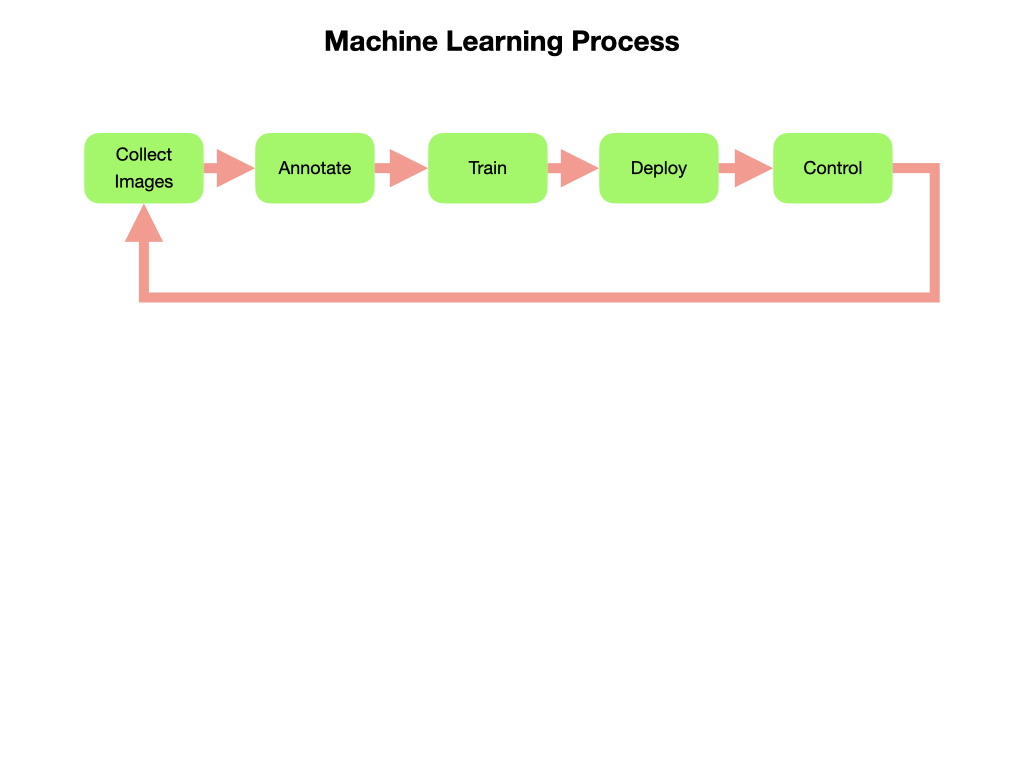
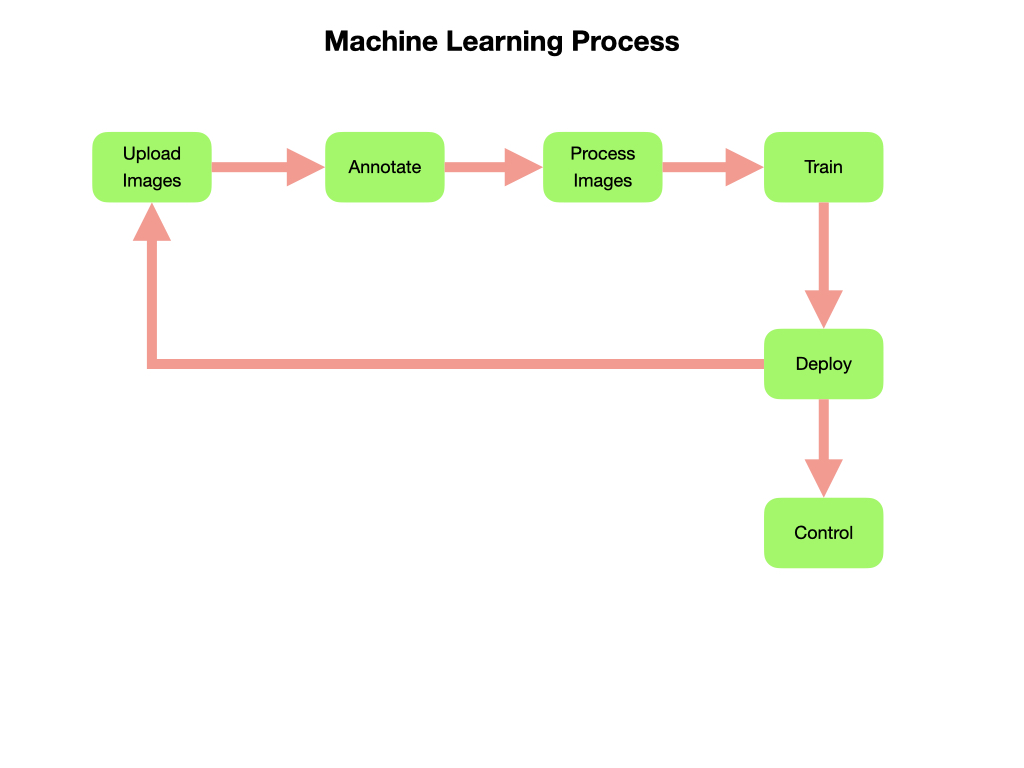
Added Machine Learning

Changed region(s): [[0.0625, 0.1562, 0.9375, 0.75]]

diff --git a/docs/MachineLearning/MLDeployment.md b/docs/MachineLearning/MLDeployment.md
@@ -1,3 +1,92 @@
 # Deploying the Model
+This section shows how to deploy the detection model using an [OAK-D](https://shop.luxonis.com/products/1098obcenclosure) camera provided by [Luxonis](https://www.luxonis.com/).  Luxonis has detailed documentation for its [Depthai](https://docs.luxonis.com/en/latest/) software.  The OAK-D is a powerfull depth camera with an on-board processor that removes the need to have a **Coral TPU** attached to the Raspberry Pi.
+
+The model will be deployed on a Raspberry Pi4 using the [WPILibPi](https://github.com/wpilibsuite/WPILibPi/releases) image.  There are two images, one is used for *Vision* that you would use on a competition robot, and the other is for the *Romi* robot.  The Romi image has everyting that the Vision image has but also includes additional software to operate the Romi. For instructions on installing the Romi image go to [Imaging your Romi](https://docs.wpilib.org/en/stable/docs/romi-robot/imaging-romi.html) on the FRC Documentation site. I recommend that you use the Romi image since it is easier to install additional software on.  You can just login using `ssh pi@wpilibpi.local` with password `raspberry` as soon as the image boots up. 
+
+Once the image is deployed you can proceed with the install of the OAK camera software that is required to do *Inference*.  We'll also deploy a python script to run the model and put the output into the *WPI Network Tables* and display the output to a Web URL.
+
+## Installing the Depthai Software
+
+The **Depthai** software is required in order to do inference on the Raspberry Pi.  The software must be installed natively (**don't** use the *pip virtualenv*) since the WPILib Network Tables are also used for the deployment.  
+
+> Note: You'll require access to the internet to run the installation steps, so if your Romi is set up in Access mode then plug an ethernet cable into the Raspberry Pi. In Access mode you can login using `ssh pi@wpilibpi.local`.  If the Romi is set up in Bridge mode the an ethernet cable is not required. 
+
+> Note: Make sure that the Romi file system is in Writable mode before running the installation.
+
+Before installing the software make sure that `git` is installed using `git --version`.  The *Vision* image of `wpilibpi` does not include it by default.  To install git use `sudo apt install git`. Follow these steps to install the software:
+
+- Install the dependencies: 
+
+        sudo curl -fL https://docs.luxonis.com/install_dependencies.sh | bash
+
+- Install the Depthai libraries:
+
+        python3 -m pip install depthai
+
+- Install the Depthai packages:
+
+        git clone https://github.com/luxonis/depthai-python.git
+
+- Install the Python package requirements:
+
+        cd depthai-python/examples
+        python3 install_requirements.py
+
+- Create a script that triggers your computer to recognize the OAK camera when it's plugged in.
+
+        echo 'SUBSYSTEM=="usb", ATTRS{idVendor}=="03e7", MODE="0666"' | sudo tee /etc/udev/rules.d/80-movidius.rules
+
+- Run the device configuration script:
+
+        sudo udevadm control --reload-rules && sudo udevadm trigger
+
+- To test that the OAK-D camera is recognised, plug it in and run the following command.  You should get the output shown.  Make sure that you plug it into the USB3 input (blue port).
+
+        lsusb | grep MyriadX
+        Bus 003 Device 002: ID 03e7:2485 Intel Movidius MyriadX
+      
+
+        
+
+## Deploying the Python Inference Script        
+In order to run the OAK-D camera and display the detected objects you need to deploy a custom python script that is specific to the type of detection model that you want to deploy. An example of a custom script can be found [here](https://github.com/mjwhite8119/RomiExamples/blob/main/BasicML/Vision/tiny_yolo_wpi.py).  This script will detect purple and red blocks and display the output to a Web URL.  It'll also place information about objects that have been detected into Network Tables so a it can be used by your WPILib java program.
+
+To deploy the script follow these steps:
+
+- Clone the models and python scripts from GitHub:
+
+        cd
+        git clone https://github.com/mjwhite8119/FRCDetectionModels.git
+
+- Copy the runCamera script to the home directory.  This is used by the Romi WebUI to run the detection process:
+
+        cp FRCDetectionModels/runCamera .
+
+- Install the python package requirements:
+
+        cd FRCDetectionModels/
+        python3 -m pip install -r requirements.txt        
+
+## Run the Detection Script
+You can now put the Romi back into Read-Only mode.  Plug the OAK-D camera into the USB 3 port (blue port).  It will need to be powered from the barrel jack, which will require an additional power source.
+
+> Note: You must connect to the access point using the SSID and password of your Romi in order for the script to run and display the output. 
+
+To start the object detection script go the the *Application* tab on the Romi WebUI, change the mode to *Writable*, and put the application in *Custom* mode.  Remember to click the *Save* button under the *Application* panel.  Then go to the *Vision Status* tab and click the *Down* button to stop any current running scripts.  Wait a few seconds and then click the *Up* button to start the object detection script.
+
+![Start Object Detection](../images/FRCMachineLearning/FRCMachineLearning.009.jpeg)
+
+The camera streamed output can be viewed from `10.0.0.2:8091`.  
+> Note: The camera stream does not work from a Safari browser, use Chrome or Firefox.
+
+### Start the Script from the Command Line
+
+From the `FRCDetectionModels` directory run:
+
+        python3 tiny_yolo_wpi.py 
+
+The output can be viewed at `10.0.0.2:8091`
 
 ## References
+- Luxonis [Depthai](https://docs.luxonis.com/en/latest/) software documentation
+- Roboflow [Deployment](https://www.youtube.com/watch?v=f2d5YksgQsU) - Youtube Video

diff --git a/docs/MachineLearning/MLDeployment_.md b/docs/MachineLearning/MLDeployment_.md
@@ -1,0 +1,72 @@
+#  Deploying the Model
+  
+This section shows how to deploy the detection model using an [OAK-D](https://shop.luxonis.com/products/1098obcenclosure ) camera provided by [Luxonis](https://www.luxonis.com/ ).  Luxonis has detailed documentation for its [Depthai](https://docs.luxonis.com/en/latest/ ) software.  The OAK-D is a powerfull depth camera with an on-board processor that removes the need to have a **Coral TPU** attached to the Raspberry Pi.
+  
+The model will be deployed on a Raspberry Pi4 using the [WPILibPi](https://github.com/wpilibsuite/WPILibPi/releases ) image.  There are two images, one is used for *Vision* that you would use on a competition robot, and the other is for the *Romi* robot.  The Romi image has everyting that the Vision image has but also includes additional software to operate the Romi. For instructions on installing the Romi image go to [Imaging your Romi](https://docs.wpilib.org/en/stable/docs/romi-robot/imaging-romi.html ) on the FRC Documentation site. I recommend that you use the Romi image since it is easier to install additional software on.  You can just login using `ssh pi@wpilibpi.local` with password `raspberry` as soon as the image boots up. 
+  
+Once the image is deployed you can proceed with the install of the OAK camera software that is required to do *Inference*.  We'll also deploy a python script to run the model and put the output into the *WPI Network Tables* and display the output to a Web URL.
+  
+##  Installing the Depthai Software
+  
+  
+The **Depthai** software is required in order to do inference on the Raspberry Pi.  The software must be installed natively (**don't** use the *pip virtualenv*) since the WPILib Network Tables are also used for the deployment.  
+  
+> Note: You'll require access to the internet to run the installation steps, so if your Romi is set up in Access mode then plug an ethernet cable into the Raspberry Pi. In Access mode you can login using `ssh pi@wpilibpi.local`.  If the Romi is set up in Bridge mode the an ethernet cable is not required. 
+  
+> Note: Make sure that the Romi file system is in Writable mode before running the installation.
+  
+Before installing the software make sure that `git` is installed using `git --version`.  The *Vision* image of `wpilibpi` does not include it by default.  To install git use `sudo apt install git`. Follow these steps to install the software:
+  
+- Install the dependencies: 
+`sudo curl -fL https://docs.luxonis.com/install_dependencies.sh | bash`
+  
+- Install the Depthai libraries:
+`python3 -m pip install depthai`
+  
+- Install the Depthai packages:
+`git clone https://github.com/luxonis/depthai-python.git`
+  
+- Install the Python package requirements:
+`cd depthai-python/examples`
+`python3 install_requirements.py`
+  
+- Create a script that triggers your computer to recognize the OAK camera when it's plugged in.
+`echo 'SUBSYSTEM=="usb", ATTRS{idVendor}=="03e7", MODE="0666"' | sudo tee /etc/udev/rules.d/80-movidius.rules`
+- Run the device configuration script:
+`sudo udevadm control --reload-rules && sudo udevadm trigger`
+  
+##  Deploying the Python Inference Script        
+  
+In order to run the OAK-D camera and display the detected objects you need to deploy a custom python script that is specific to the type of detection model that you want to deploy. An example of a custom script can be found [here](https://github.com/mjwhite8119/RomiExamples/blob/main/BasicML/Vision/tiny_yolo_wpi.py ).  This script will detect purple and red blocks and display the output to a Web URL.  It'll also place information about objects that have been detected into Network Tables so a it can be used by your WPILib java program.
+  
+To deploy the script follow these steps:
+  
+- Clone the models and python scripts from GitHub:
+`cd ~`
+`git clone https://github.com/mjwhite8119/FRCDetectionModels.git`
+  
+- Copy the runCamera script to the home directory.  This is used by the Romi WebUI to run the detection process:
+`cp FRCDetectionModels/runCamera .`
+  
+- Install the python package requirements:
+`cd FRCDetectionModels/`
+`python3 -m pip install -r requirements.txt`        
+  
+##  Run the Detection Script
+  
+You can now put the Romi back into Read-Only mode.  Plug the OAK-D camera into the USB 3 port (blue port).  It will need to be powered from the barrel jack, which will require an additional power source.
+  
+From the `FRCDetectionModels` directory run:
+  
+`python3 tiny_yolo_wpi.py` 
+  
+> Note: Currently this next step must be done from a Chrome brower.
+  
+The output can be viewed at:
+`10.0.0.2:8091`
+  
+##  References
+  
+- Luxonis [Depthai](https://docs.luxonis.com/en/latest/ ) software documentation
+- Roboflow [Deployment](https://www.youtube.com/watch?v=f2d5YksgQsU ) - Youtube Video
+  

diff --git a/docs/MachineLearning/MLIndex.md b/docs/MachineLearning/MLIndex.md
@@ -1,15 +1,23 @@
 # Introduction to Machine Learning
 **Machine Learning** is a powerful tool that can accomplish computational tasks that traditional algorithms cannot. In the FIRST Robotics Competition, machine learning can be used to detect game pieces, scoring locations, or even other robots.  For a good overview of Machine Learning see Brendan Fortuner's [Machine Learning Glossary](https://ml-cheatsheet.readthedocs.io/en/latest/nn_concepts.html).  Also see an [Introduction to Machine Learning](https://docs.wpilib.org/en/stable/docs/software/wpilib-tools/axon/machine-learning.html) in the FRC Documentation. 
 
-In order to implement Machine Learning we'll generally follow a process of collecting images, annotating the images, training a model, deploying the trained model on the robot, and finally using the trained model to control the robot.  This is an iterative process that will be continued until we have a satisfactory outcome.  
+In order to implement Machine Learning we'll generally follow a process of collecting images, annotating the images, preprocessing and augmenting the images, training a model, deploying the trained model on the robot, and finally using the trained model to control the robot.  This is an iterative process that will be continued until we have a satisfactory outcome.  
 ![Machine Learning Process](../images/FRCMachineLearning/FRCMachineLearning.001.jpeg)
 
-There are multiple ways to carry out this process.  FRC has a tool called **Axon** that implements the training, testing, and exporting of the machine learning model.  See an [Introduction to Axon](https://docs.wpilib.org/en/stable/docs/software/wpilib-tools/axon/introduction.html) in the FRC Documentation.  Other processes are used to Annotate the images. Various options to carry out this process are detailed in the following sections.
+There are multiple ways to carry out this process.  FRC has a tool called **Axon** that implements the training, testing, and exporting of the machine learning model.  See an [Introduction to Axon](https://docs.wpilib.org/en/stable/docs/software/wpilib-tools/axon/introduction.html) in the FRC Documentation.  The model is then deployed to a Raspberry Pi using a [Coral USB Accelerator](https://coral.ai/products/accelerator) for real-time processing of the images. 
 
-- [Image Collection](MLImageCollection.md)
-- [Annotating Images](MLAnnotation.md)
+An alternative process is to use the [Roboflow](https://roboflow.com) platform to upload video, process the images, and train the model.  The resulting trained model is deployed to a Raspberry Pi using an OAK-D camera provided by [Luxonis](https://www.luxonis.com).  The OAK-D camera has an onboard Tensor Processing Unit (TPU) that runs the model and processes the images before sending it to the Raspberry Pi.  The model can also be trained in [Google Colab](https://colab.research.google.com/?utm_source=scs-index).
+
+![Roboflow OAK-D Process](../images/FRCMachineLearning/FRCMachineLearning.002.jpeg)
+
+The Roboflow, Google Colab, with the OAK-D Camera deployment process is the one that will be documented in the following sections.
+
+
+<!-- - [Image Collection](MLImageUpload.md)
+- [Annotating Images](MLAnnotation.md) -->
+- [Preparing Images](MLProcessImages.md)
 - [Training the Model](MLTraining.md)
-- [Deployment](MLDeployment.md)
+- [Deploying the Model](MLDeployment.md)
 - [Machine Learning Based Control](MLControl.md)
 
 ## References
@@ -20,3 +28,7 @@ There are multiple ways to carry out this process.  FRC has a tool called **Axon
 - Jeremy Howard, Sylvain Gugger - [Practical Deep Learning for Coders](https://course.fast.ai/)
 
 - Deep Learning - [Video Playlist](https://www.youtube.com/playlist?list=PLZbbT5o_s2xq7LwI2y8_QtvuXZedL6tQU) - deeplizard
+
+- Roboflow [OpenCV AI Kit Training Course](https://roboflow.com/course)
+
+- OAK-D Camera [Luxonis](https://www.luxonis.com)

diff --git a/docs/MachineLearning/MLTraining.md b/docs/MachineLearning/MLTraining.md
@@ -1,3 +1,51 @@
 # Training a Model
+There are options that we have to train our model.  It can be trained in Roboflow or we can export it for training in Google Colab.  To train in Roboflow watch the [Training](https://www.youtube.com/watch?v=njWwmKLWVyE)  YouTube Video and read the [Train](https://docs.roboflow.com/train) documentation.  To train in Colab follow the next steps.
+
+## Exporting the Dataset
+In order to train the dataset in Colab it has to be exported to a format compatible with the training model.  In our case, we'll use the YoloV4 training model so we'll export it in *YOLO Darknet* format.  The format process will give you a token that will be used to import the dataset into Colab.
+
+![Generating Dataset](../images/FRCMachineLearning/FRCMachineLearning.006.jpeg)
+
+## Training YoloV4 Model
+Make sure that you're familiar with how Colab works.  
+Use the [Roboflow-YOLOv3-tiny-Darknet-to-OAK.ipynb](https://colab.research.google.com/drive/1Sc6B-clNJZ3OBxCxIoddhLFxIYoJJzRT#scrollTo=JlPEcD7UkE4Q)  Colab Notebook to train the model.  Once the Colab page loads save a copy of the notebook in your Google Drive.  When you start the first step by executing the first cell it will allocate a GPU for you. There are quite a few steps to the training process that you must do in a single session.  This is because Colab will 
+
+### Setup the Colab Notebook for Training
+
+- Configure our GPU environment on Google Colab
+- Install the Darknet YOLOv4 training environment.  This will create the `darknet` directory structure in the *Files* sidebar.
+- Download custom dataset for YOLOv4 and set up directories. This is where you get your dataset from Roboflow into the Colab notebook.  Copy the export key from the Roboflow export and paste it into the notebook.  Your key should look something like this:
+
+        !pip install roboflow
+
+        from roboflow import Roboflow
+        rf = Roboflow(api_key="yourkey")
+        project = rf.workspace("martin-white").project("infinte-recharge")
+        dataset = project.version(2).download("darknet")
+
+- Configure a custom YOLOv4 training config file for Darknet
+
+### Train Detector Model
+The next step is to train a custom YOLOv4 object detector.
+
+As the training progresses files with the suffix `.weights` will show up in the `darknet/backup` directory.
+
+### Test the Model
+- Reload YOLOv4 trained weights and make inference on test images
+
+### Convert to OpenVino Blob File
+When you are satisfied with the model's testing results you can convert it to a file format that runs on the OAK-D camera.  During this process **TensorFlow** and **OpenVino** will get installed into the Colab environment.  The conversion process is shown below.
+
+![Converting Model](../images/FRCMachineLearning/FRCMachineLearning.008.jpeg)
+
+Save and download the `.weights` file that was created in *Train Detector Model* step.  This file can be converted to other formats suitable for deployment.
+
+Convert `.weights` file to a `.pb`
+
+Convert the `.pb` file to the OpenVino *Intermediate Representation* (IR) file.
+
+Install the *blobconverter* and use it to convert IR files to OpenVino to blob that can be run on OAK devices. After this step is complete the *IR* and *blob* files are downloaded to your PC.
+
 
 ## References
+- Roboflow [Training](https://www.youtube.com/watch?v=njWwmKLWVyE) - Youtube Video

diff --git a/docs/MachineLearning/MLProcessImages.md b/docs/MachineLearning/MLProcessImages.md
@@ -1,0 +1,38 @@
+# Preparing Images
+Before a *Neural Network Model* can be trained we need a lot of prepared images of the objects that you want to detect.  Preparing images involves:
+- **Annotating**, which involves drawing bounding boxes around objects of interest. 
+- **Preprocessing**. 
+- **Augmenting**, which increases the number of image samples. 
+- **Versioning**, so as you can keep multiple versioned copies of your prepared image datasets.
+
+Finally, the images must be exported in preparation for training the neural network model.
+
+![Prepare Images for Training](../images/FRCMachineLearning/FRCMachineLearning.003.jpeg)
+
+## Image Collection & Upload
+The best way to get multiple images is to take a video of the objects.  In our case, it would most likely be a video of the game pieces used in the competition.  It's best to take the video under the same conditions that would be encountered on the game field. If this is not possible then take images in your school hallway.  Try to get lighting conditions that are similar to that of the game arena.
+
+Once you have the video upload it to the Roboflow Website.  You will need to create an account, which you can do by using your GitHub account login.  Watch this Roboflow [Image Upload](https://www.youtube.com/watch?v=ZspfrPd4IKo) YouTube Video for how to do this.  Also read about [Adding Data](https://docs.roboflow.com/adding-data) in the Roboflow documentation.
+
+## Annotating Images
+Once you have the images uploaded they need to be annotated.  This involves drawing bounding boxes around objects of interest.  In our case, we will draw a bounding box around the game pieces.  There may be one or more game pieces in a single image.  Once the bounding box is drawn is has to have a label assigned.  
+
+![Annotating Images](../images/FRCMachineLearning/FRCMachineLearning.004.jpeg)
+
+For an overview of annotating images you can watch the Roboflow [Annotate](https://www.youtube.com/watch?v=oCqd3oXp_HU) YouTube Video.  You should also read the Roboflow [Annotate](https://docs.roboflow.com/annotate) documentation.
+
+## Preprocessing and Augmenting the Images
+The next step is to *Preprocess* and *Augment* the images.   For information on preprocessing see Roboflow [Preprocessing](https://docs.roboflow.com/image-transformations/image-preprocessing), and more details on augmentation see the [Augmentation](https://docs.roboflow.com/image-transformations/image-augmentation) documentation. Augmenting is only done on the training images.
+
+After this is done we can create a version of the dataset in preparation for training.  The *Train/Test Split* is done during image upload.  Give your dataset version a meaningful name so as you know what it contains.
+
+![Generating Dataset](../images/FRCMachineLearning/FRCMachineLearning.005.jpeg)
+
+After creating a dataset version it can be *Exported* for training.  This is shown in the training section.
+
+## References
+- Roboflow [Image Upload](https://www.youtube.com/watch?v=ZspfrPd4IKo) - Youtube Video
+
+- Roboflow [Annotate](https://www.youtube.com/watch?v=oCqd3oXp_HU) - Youtube Video
+
+- Roboflow [Organize](https://www.youtube.com/watch?v=VyJ5HyaneuA) - Youtube Video

diff --git a/docs/Romi/Control/romiArm.md b/docs/Romi/Control/romiArm.md
@@ -42,11 +42,11 @@ There are minimum and maximum limits to the range of motion of the arm.  The ran
 ## Robot Arm Startup
 There's an issue with the robot arm when it's attached to the Romi with the FRC software stack installed.  The microcontroller will initiate prior to you starting your java program and it will activate the arm servos outside of their safe operating ranges.  This results in the arm crashing down onto the ground if the Romi Arm is built according to the instructions.  To prevent this the firmware on the Romi has to be updated.  
 
-The problem is illustrated in the diagram below. The microcontroller gets the PWM signals for the servos from the *external IO buffers*.  See [Romi Onboard and External IO](../SC/romiIO.md) for a description of these. Whenever your java program is not running, or is *Disabled*, the `rPiLink.buffer.extIoValues` are set to zero. This translates to a servo position of 90 degrees, which is outside of the safe range of the servo.  Unfortunatelly, there's no way to control this from your java program since it's no longer connected to the microcontroller.  The only way to resolve this problem is to modify the microcontroller firmware.
+The problem is illustrated in the diagram below. The microcontroller gets the PWM signals for the servos from the *external IO buffers*.  See [Romi Onboard and External IO](../SC/romiGPIO.md) for a description of these. Whenever your java program is not running, or is *Disabled*, the `rPiLink.buffer.extIoValues` are set to zero. This translates to a servo position of 90 degrees, which is outside of the safe range of the servo.  Unfortunatelly, there's no way to control this from your java program since it's no longer connected to the microcontroller.  The only way to resolve this problem is to modify the microcontroller firmware.
 
 ![Arm Motor Range](../../images/Romi/Romi.021.jpeg)
 
-The firmware has been updated to prevent the servos from going outside of their safe ranges and includes three new functions: `initializeArm(), incrementWrites()`, and `doWritesForArm()`.  In order to use those functions you must press the **A Button** on the microcontroller to switch it into *Arm Mode*.  The modified [firmware program](https://github.com/mjwhite8119/wpilib-ws-robot-romi/blob/main/firmware/src/main.cpp) can be viewed on Github. To install this version of the firmware follow the instructions in the [Romi Firmware](../RomiSoftware/romiFirmware.md) module.
+The firmware has been updated to prevent the servos from going outside of their safe ranges and includes three new functions: `initializeArm(), incrementWrites()`, and `doWritesForArm()`.  In order to use those functions you must press the **A Button** on the microcontroller to switch it into *Arm Mode*.  The modified [firmware program](https://github.com/mjwhite8119/wpilib-ws-robot-romi/blob/main/firmware/src/main.cpp) can be viewed on Github. To install this version of the firmware follow the instructions in the [Romi Firmware](../../SoftwareInstall/romiFirmware.md) module.
 
 Follow this startup procedure.
 

diff --git a/docs/SoftwareInstall/romiPiSoftware.md b/docs/SoftwareInstall/romiPiSoftware.md
@@ -9,9 +9,17 @@ In the [romi-robot.ts](https://github.com/wpilibsuite/wpilib-ws-robot-romi/blob/
 
 The [wpilib-ws-robot-romi](https://github.com/wpilibsuite/wpilib-ws-robot-romi) package depends on [wpilib-ws-robot](https://github.com/wpilibsuite/wpilib-ws-robot), which in turn depends on [node-wpilib-ws](https://github.com/wpilibsuite/node-wpilib-ws). The `node-wpilib-ws` package contains the core classes that implement the WPILib WebSocket protocol.
 
-![RaspberryPi Software](../../images/Romi/Romi.003.jpeg)
+![RaspberryPi Software](../images/Romi/Romi.003.jpeg)
 
-![External IO Config](../../images/Romi/Romi.035.jpeg)
+## Software Install
+The Romi Robots that you'll be using for training will already have a software image installed on an SD card.  If you purchase a new Romi or the SD card gets corrupted then refer to [Imaging your Romi](https://docs.wpilib.org/en/stable/docs/romi-robot/imaging-romi.html) to create a new image.
+
+You will have to upgrade the software as new releases come available.  This can be done via the [The Romi Web UI](https://docs.wpilib.org/en/stable/docs/romi-robot/web-ui.html#romi-status).  You first have to download the latest release from the [Romi Web Service Release](https://github.com/wpilibsuite/wpilib-ws-robot-romi/releases) page.  Download the `romi-service-x.x.x.tgz` file to your PC.  Then connect to the Romi and click on the **Romi** tab and scroll down to the **Web Service Update** section.  Put the Romi in *Writable* mode, choose the file, and click *Save*.  
+
+Note: When downloading the file from the releases page the extension may get renamed to `.tar`.  You will need to rename it back to `.tgz` in order to choose the file in the Web UI.
+
+## External IO Configuration
+![External IO Config](../images/Romi/Romi.035.jpeg)
 
 ### Data Communications
 Only send the heartbeat if we have an active WS connection, the robot is in enabled state AND we have a recent-ish DS packet

diff --git a/docs/SoftwareInstall/visionSoftware.md b/docs/SoftwareInstall/visionSoftware.md
@@ -4,6 +4,9 @@ There are two vision software systems used in FRC.  The most commonly used is th
 ## Limelight Software Install
 
 ## PhotonVision Software Install
+To install PhotoVision for the first time see [Installing PhotonVision on a Romi](https://docs.photonvision.org/en/latest/docs/getting-started/installation/romi.html).  While connected to your PC download the latest release from the [PhotoVision Releases](https://github.com/PhotonVision/photonvision/releases) page.  Select the `photonvision-v2022.2.0-raspi.jar` file for download.  
 
+If you already have PhotonVision installed connect to the Romi at `10.0.0.2:5800` and click on *Settings*.  Use the *Offline Update* button to upload the new jar file.  You must place the Romi in *Writable* mode from the **Romi Web UI** before doing this.  PhotoVision will automatically restart after the upload.
 
 ## References
+- [PhotonVision](https://docs.photonvision.org/en/latest/) documentation

diff --git a/docs/SoftwareInstall/romiFirmware.md b/docs/SoftwareInstall/romiFirmware.md
@@ -1,4 +1,4 @@
-# Micro Controller Firmware
+# Romi Micro Controller Firmware
 The micro controller firmware is run on an 32U4 development board, which is an embedded Arduino based microcontroller with built-in WiFi.  For the development environment (IDE) we'll be using VSCode.  This is the IDE most commonly used by <i>First Robotics</i> teams.  In order to install code onto the 32U4 microcontoller you have to install the PlatformIO plugin for VSCode. Information about the PlatformIO plugin can be found here:
 
 [Getting Started with PlatformIO](https://dronebotworkshop.com/platformio/)

diff --git a/docs/MachineLearning/MLAnnotation.md b/docs/MachineLearning/MLAnnotation.md
@@ -1,3 +1,8 @@
 # Annotating Images
+Once you have the images collected you can upload them to various sites for annotation.  
+
+### Supervisely
+See the FRC Documentation page [Labelling a Dataset](https://docs.wpilib.org/en/stable/docs/software/wpilib-tools/axon/labeling-a-dataset-with-supervisely.html) to annotate them with Suppervisely.
 
 ## References
+- Roboflow [Annotate](https://www.youtube.com/watch?v=oCqd3oXp_HU) - Youtube Video

diff --git a/docs/Romi/SC/romiSCIndex.md b/docs/Romi/SC/romiSCIndex.md
@@ -8,5 +8,4 @@ The Subsystems and Command modules are the starting point for the programmer tra
 - [Basic Robot Structure](romiStructure.md)
 - [Subsystems](romiSubsystems.md)
 - [Commands](romiCommands.md)
-- [Command Groups](romiCommandGroups.md)
 - [Shuffleboard](romiShuffleboard.md)

diff --git a/docs/MachineLearning/MLImageUpload.md b/docs/MachineLearning/MLImageUpload.md
@@ -1,0 +1,4 @@
+# Image Collection & Upload
+
+## References
+- Roboflow [Image Upload](https://www.youtube.com/watch?v=ZspfrPd4IKo) - Youtube Video
